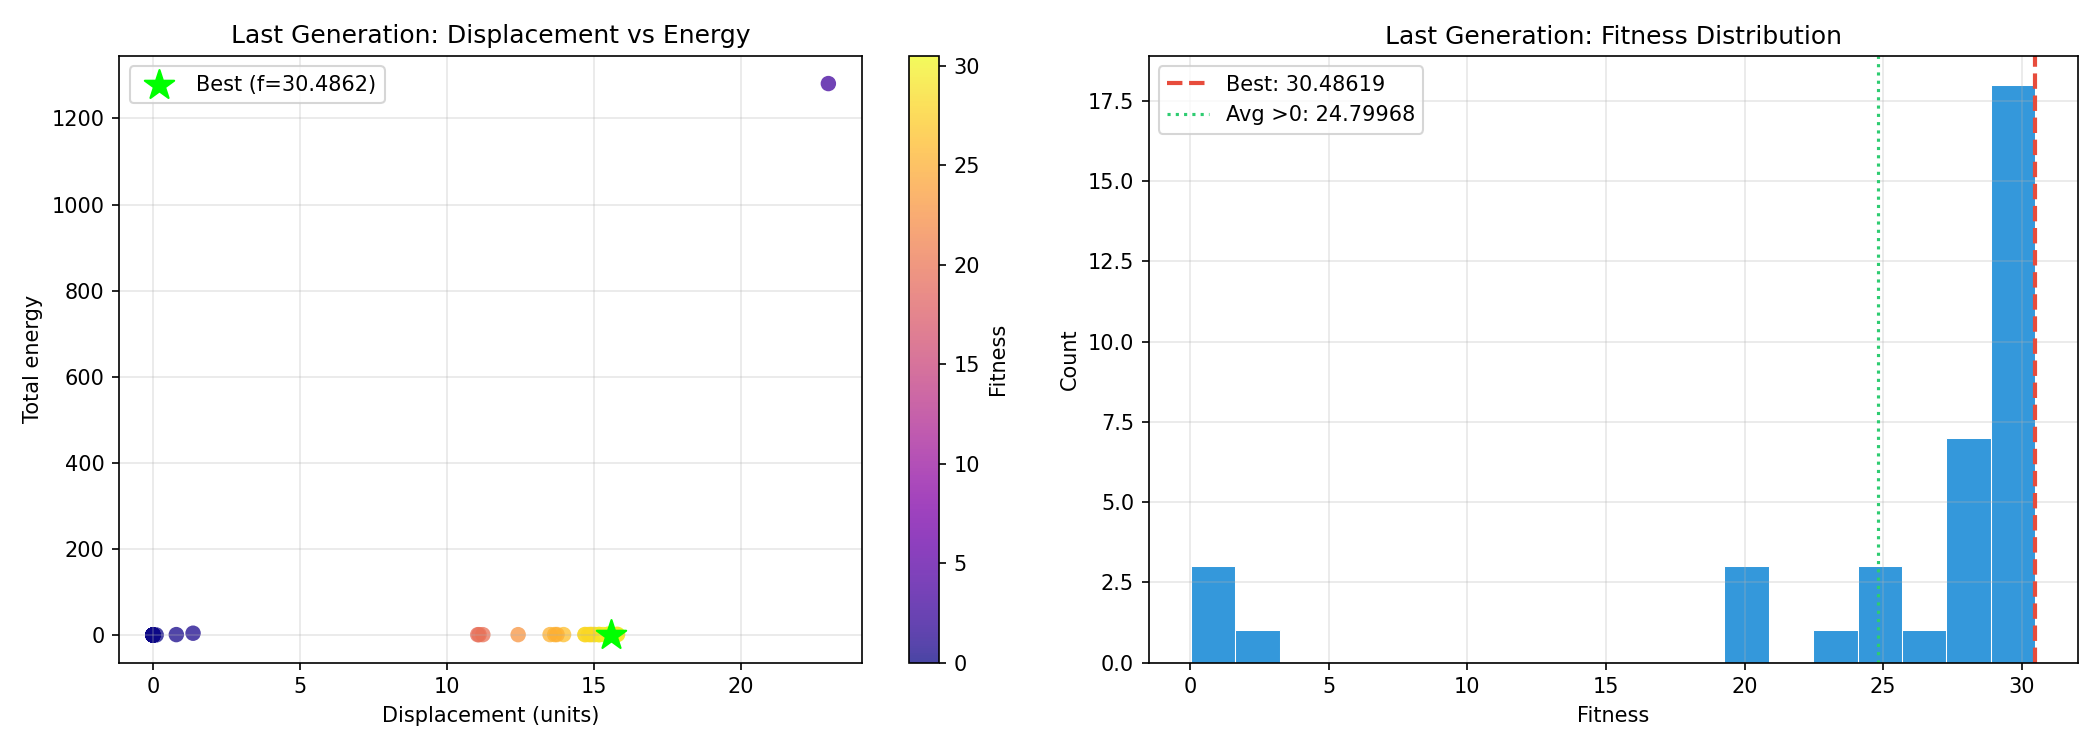
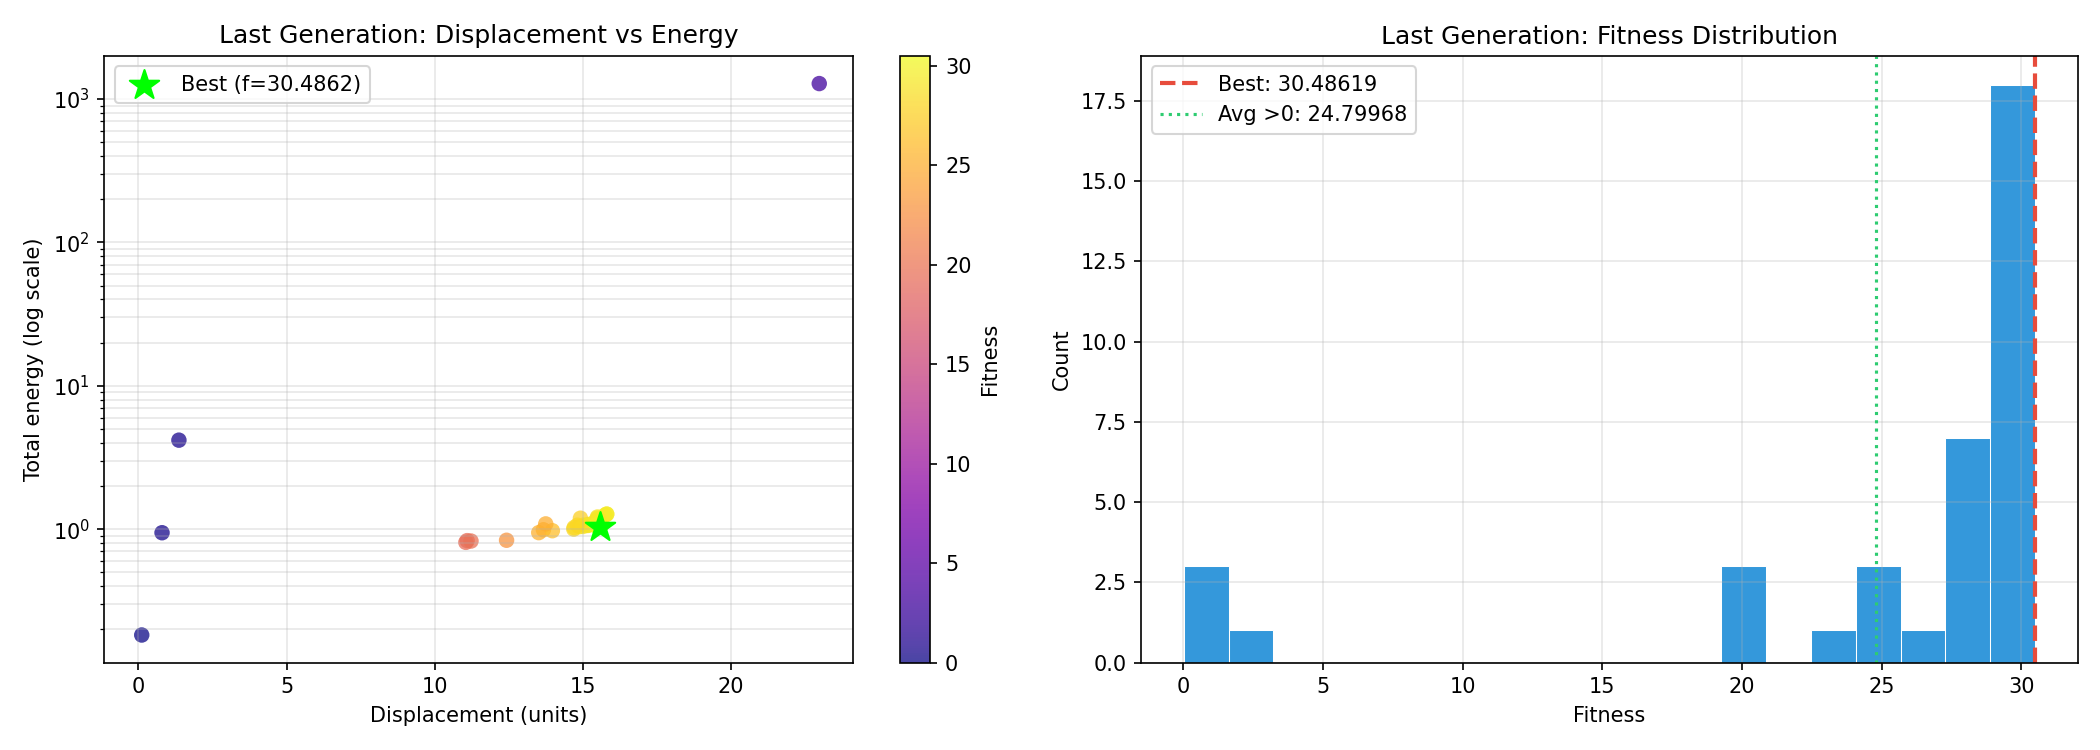
pllot de l energie et du displacement VS generations

diff --git a/plot_evolution.py b/plot_evolution.py
@@ -198,9 +198,10 @@ def save_plots(history, out_dir, timestamp):
     bi = int(np.argmax(ff))
     axes[0].scatter([fd[bi]], [fe[bi]], c='lime', s=220, marker='*',
                     zorder=5, label=f'Best (f={ff[bi]:.4f})')
-    axes[0].set(xlabel='Displacement (units)', ylabel='Total energy',
+    axes[0].set_yscale('log')
+    axes[0].set(xlabel='Displacement (units)', ylabel='Total energy (log scale)',
                 title='Last Generation: Displacement vs Energy')
-    axes[0].legend(fontsize=10); axes[0].grid(True, alpha=0.3)
+    axes[0].legend(fontsize=10); axes[0].grid(True, alpha=0.3, which='both')
 
     nonzero = ff[ff > 0]
     axes[1].hist(nonzero, bins=min(20, max(len(nonzero)//2+1, 2)),
@@ -217,9 +218,12 @@ def save_plots(history, out_dir, timestamp):
     p = os.path.join(out_dir, f"plot_pareto_{timestamp}.png")
     fig.savefig(p, dpi=150); plt.close(fig); paths.append(p)
 
-    # ── 5. Summary panel 2×3 ─────────────────────────────────────────
-    fig = plt.figure(figsize=(18, 10))
-    gs  = gridspec.GridSpec(2, 3, figure=fig, hspace=0.44, wspace=0.34)
+    # ── 5. Summary panel 3×3 ─────────────────────────────────────────
+    best_disp   = np.array([ad[g][int(np.argmax(af[g]))] for g in gens])
+    best_energy = np.array([ae[g][int(np.argmax(af[g]))] for g in gens])
+
+    fig = plt.figure(figsize=(18, 14))
+    gs  = gridspec.GridSpec(3, 3, figure=fig, hspace=0.50, wspace=0.34)
 
     ax = fig.add_subplot(gs[0, 0])
     ax.plot(gens, history['best'], '#2ecc71', lw=2, marker='o', ms=3, label='Best')
@@ -256,6 +260,17 @@ def save_plots(history, out_dir, timestamp):
     _param_band(ax, pop_vals(4), gens, pb_deg[:, 4], colors[4])
     ax.set_title('Arm Length', fontweight='bold', fontsize=11)
     ax.set(xlabel='Generation', ylabel='units'); ax.grid(alpha=0.3)
+
+    ax = fig.add_subplot(gs[2, 0])
+    _param_band(ax, ad, gens, best_disp, '#27ae60')
+    ax.set_title('Displacement', fontweight='bold', fontsize=11)
+    ax.set(xlabel='Generation', ylabel='units'); ax.grid(alpha=0.3)
+
+    ax = fig.add_subplot(gs[2, 1])
+    _param_band(ax, ae, gens, best_energy, '#c0392b')
+    ax.set_yscale('log')
+    ax.set_title('Energy (log scale)', fontweight='bold', fontsize=11)
+    ax.set(xlabel='Generation', ylabel='energy'); ax.grid(alpha=0.3, which='both')
 
     fig.suptitle('Jellyfish GA — Evolution Summary\n'
                  '(shaded band = population IQR, line = best individual)',
